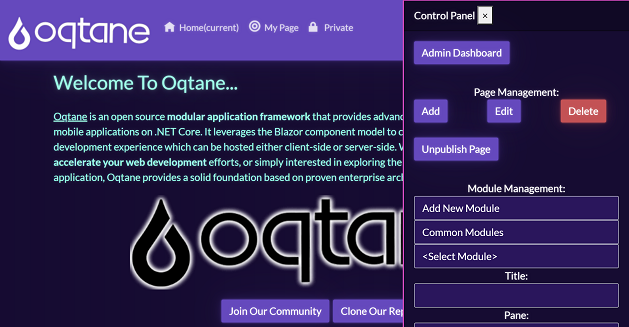
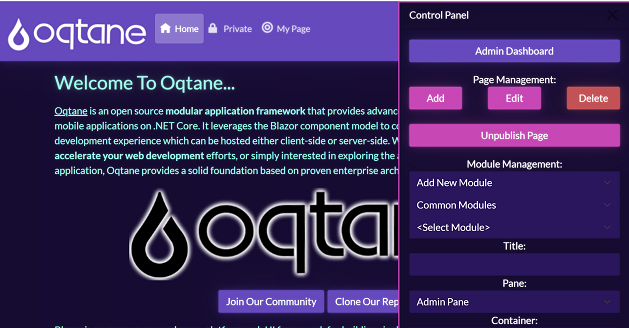
update for bootstap 5

diff --git a/wwwroot/Themes/Oqtane.Theme.Bootswatch/Zephyr.css b/wwwroot/Themes/Oqtane.Theme.Bootswatch/Zephyr.css
@@ -1,1 +1,4 @@
 /* CSS overrides */
+.btn {
+    font-size: 0.8rem;
+}
